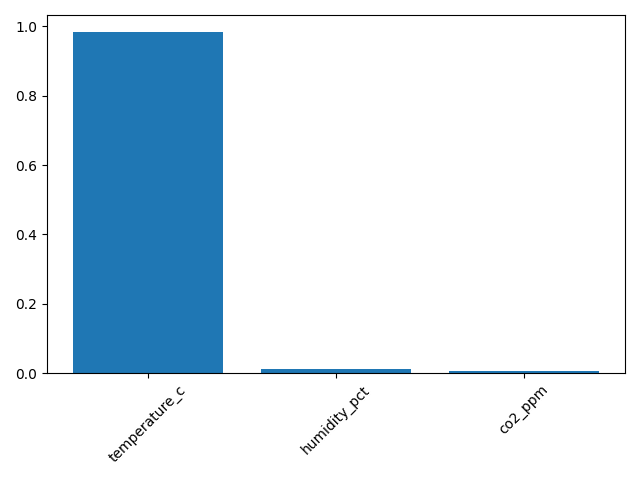
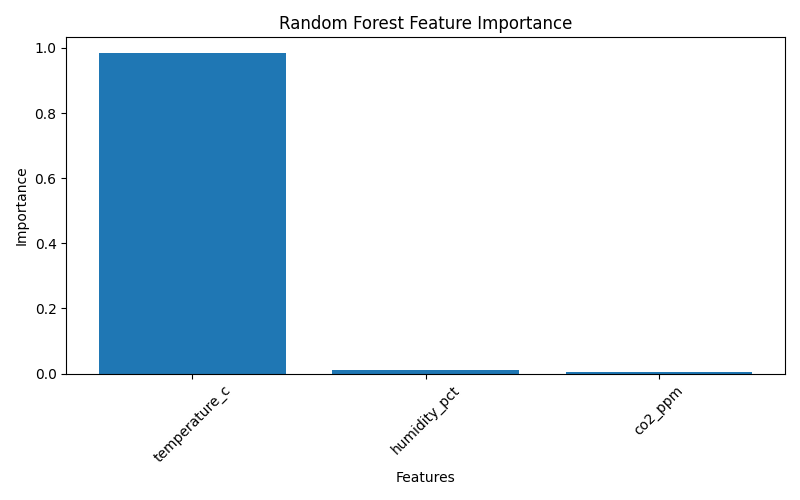
feat: complete task 8 streamlit yield forecast app with sensitivity chart

diff --git a/app1.py b/app1.py
@@ -1,0 +1,79 @@
+import streamlit as st
+import numpy as np
+import matplotlib.pyplot as plt
+from src.predict import predict_yield
+
+# 1. Page Configuration
+st.set_page_config(
+    page_title="Mushroom Yield Forecast", 
+    layout="centered",
+    initial_sidebar_state="expanded"
+)
+
+st.title("Polyhouse Yield Predictor")
+st.caption("Agritech environmental forecasting from sensor data")
+
+# 2. Optimized Cache for Model Pipeline
+@st.cache_resource
+def get_prediction_pipeline():
+    """
+    Caches the prediction function resource so the model 
+    doesn't reload from disk on subsequent slider adjustments.
+    """
+    return predict_yield
+
+# Instantiate cached function
+cached_predict = get_prediction_pipeline()
+
+# 3. Sidebar Inputs for Polyhouse Sensors
+with st.sidebar:
+    st.header("Sensor Readings")
+    temp = st.slider("Temperature (°C)", 10.0, 35.0, 22.0, 0.1)
+    humid = st.slider("Humidity (%)", 50.0, 100.0, 88.0, 0.5)
+    co2 = st.slider("CO₂ (ppm)", 400, 2000, 900, 10)
+
+# 4. Main Panel Layout & Prediction Action
+st.subheader("Current Readings Evaluation")
+
+if st.button("Predict Yield", type="primary"):
+    with st.spinner("Running inference pipeline..."):
+        try:
+            # Pass exactly the 3 required positional arguments
+            raw_kg = cached_predict(temp, humid, co2)
+            
+            # Post-processing safeguard against edge-case negative weights
+            display_kg = max(0.0, raw_kg)
+            
+            # Output metrics to UI
+            st.metric(label="Estimated Daily Yield", value=f"{display_kg:.2f} kg")
+            st.success("Yield calculations updated successfully!")
+            
+        except Exception as e:
+            st.error("🚨 The App Failed to Run Inference")
+            st.markdown(f"**Error Message:** `{e}`")
+            st.info("Please verify your 'models/' folder contains your trained joblib files and 'src/predict.py' is functional.")
+
+# 5. Requirement Requirement Check: Interactive Sensitivity Chart
+st.markdown("---")
+st.subheader("Temperature Sensitivity Analysis")
+st.write("Visualizing predicted yield patterns across varying temperatures using current humidity and CO₂ levels.")
+
+try:
+    # Generate 50 hypothetical temperature variations to plot a trend curve
+    temp_range = np.linspace(10.0, 35.0, 50)
+    predicted_yields = [cached_predict(t, humid, co2) for t in temp_range]
+
+    # Render Trend Line using Matplotlib
+    fig, ax = plt.subplots(figsize=(7, 3.5))
+    ax.plot(temp_range, predicted_yields, color="#00d2ff", linewidth=2.5, label="Yield Curve")
+    ax.axvline(x=temp, color="#ff007f", linestyle="--", alpha=0.8, label=f"Selected Temp ({temp}°C)")
+    
+    ax.set_xlabel("Temperature (°C)")
+    ax.set_ylabel("Yield (kg)")
+    ax.grid(True, linestyle=":", alpha=0.5)
+    ax.legend()
+    
+    # Render plot safely inside Streamlit
+    st.pyplot(fig)
+except Exception as e:
+    st.warning(f"Could not render sensitivity plot: {e}")

diff --git a/src/predict.py b/src/predict.py
@@ -1,0 +1,33 @@
+# src/predict.py
+import json
+import joblib
+from pathlib import Path
+
+# 1. Keep this as "models" since your terminal is executing from the inner folder
+MODEL_DIR = Path("models")
+
+def load_artifacts():
+    """
+    Safely loads the serialized model, scaler, and feature tracking files.
+    """
+    try:
+        scaler = joblib.load(MODEL_DIR / "minmax_scaler_train.joblib")
+        
+        # 2. CHANGED HERE: Match your actual file name 'champion.joblib'
+        model = joblib.load(MODEL_DIR / "champion.joblib") 
+        
+        feature_cols = json.loads((MODEL_DIR / "feature_cols.json").read_text())
+        return scaler, model, feature_cols
+    except FileNotFoundError as e:
+        raise FileNotFoundError(
+            f"Missing ML artifact in 'models/' directory. Detailed Error: {e}"
+        )
+
+# Initialize components
+_scaler, _model, _feature_cols = load_artifacts()
+
+def predict_yield(temperature_c: float, humidity_pct: float, co2_ppm: float) -> float:
+    row = [[temperature_c, humidity_pct, co2_ppm]]
+    scaled_row = _scaler.transform(row)
+    prediction = _model.predict(scaled_row)
+    return float(prediction[0])

diff --git a/src/eda_script.py b/src/eda_script.py
@@ -7,6 +7,22 @@ df = pd.read_csv("data/raw/polyhouse_sensors.csv")
 # Remove missing values
 df = df.dropna()
 
+# ========================================================
+# NEW: Calculate and Display Specific Metrics
+# ========================================================
+mean_temp = df["temperature_c"].mean()
+median_humidity = df["humidity_pct"].median()
+max_yield = df["yield_kg"].max()
+min_co2 = df["co2_ppm"].min()
+
+print("--- Calculated Metrics ---")
+print(f"Mean Temperature:  {mean_temp:.2f} °C")
+print(f"Median Humidity:   {median_humidity:.2f} %")
+print(f"Maximum Yield:     {max_yield:.2f} kg")
+print(f"Minimum CO2:       {min_co2:.2f} ppm")
+print("-" * 26)
+# ========================================================
+
 # Create 3 scatter plots
 fig, axes = plt.subplots(1, 3, figsize=(15, 5))
 

diff --git a/src/smoke_test.py b/src/smoke_test.py
@@ -23,5 +23,4 @@ def run_column_smoke_test():
     except Exception as e:
         print("=== SMOKE TEST: FAILED ===")
         print(f"Validation failed. Please check your dataset columns or file path. Error: {e}")
-
 run_column_smoke_test()
